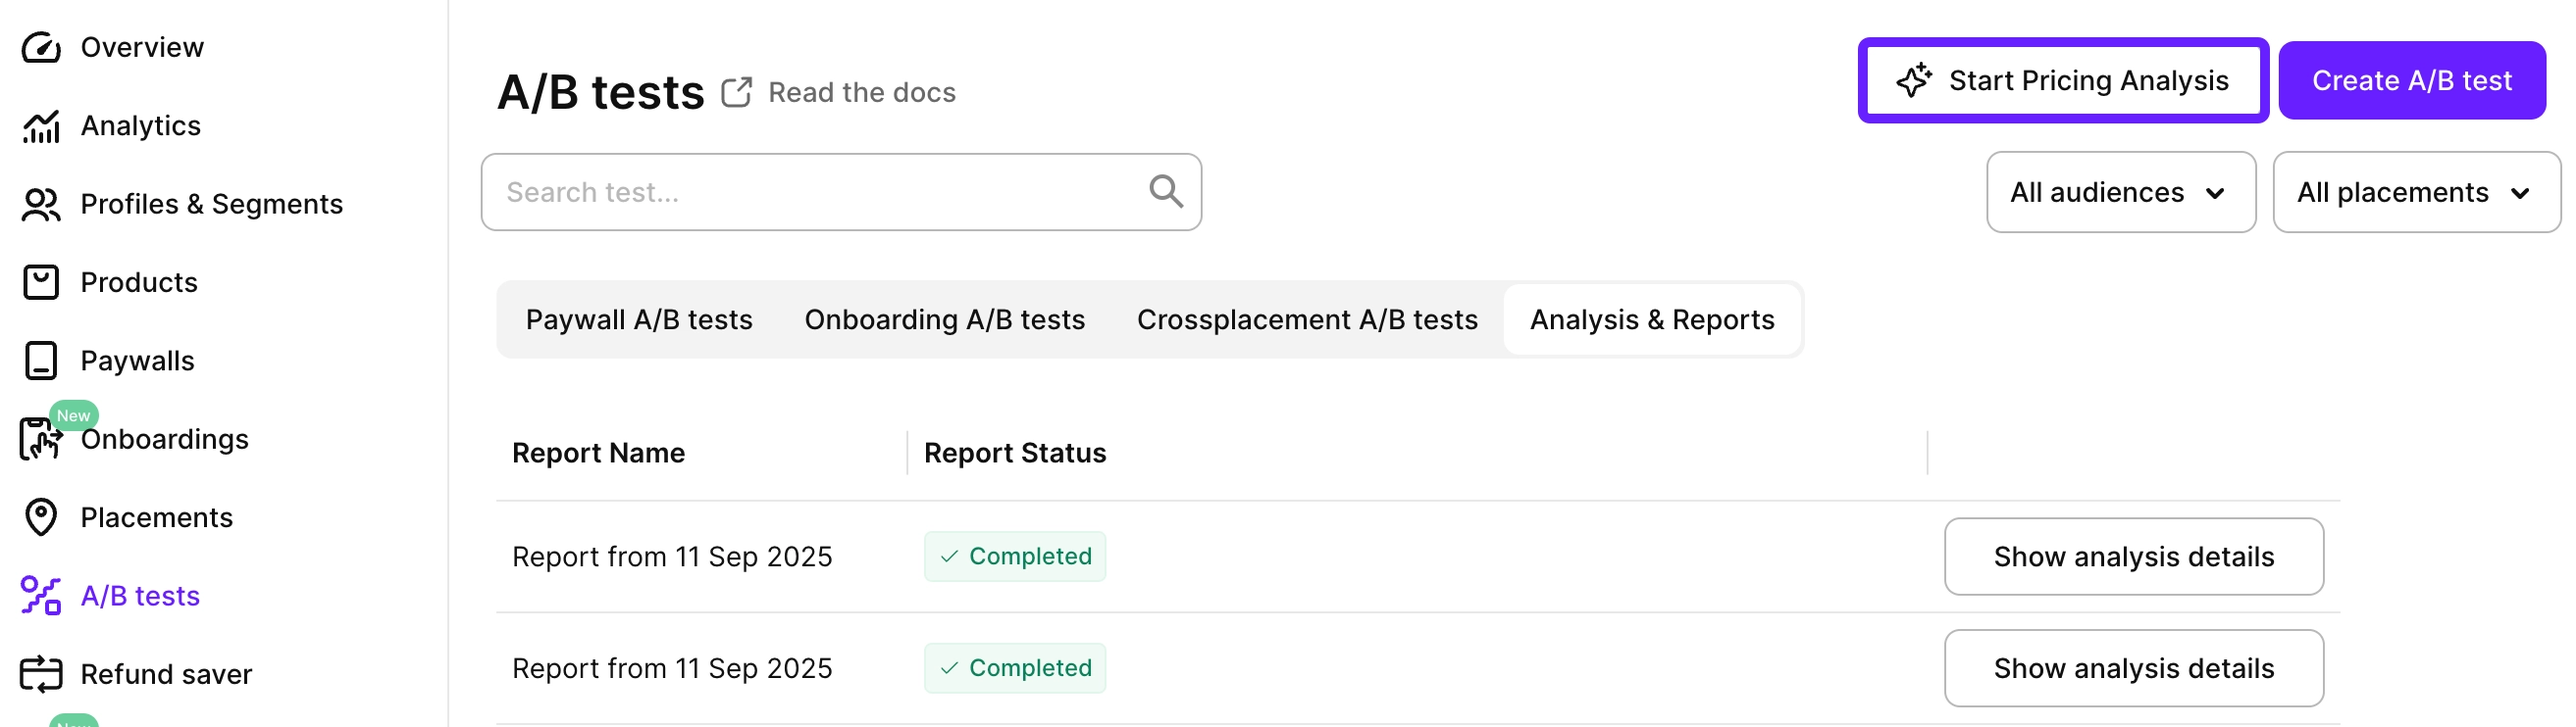
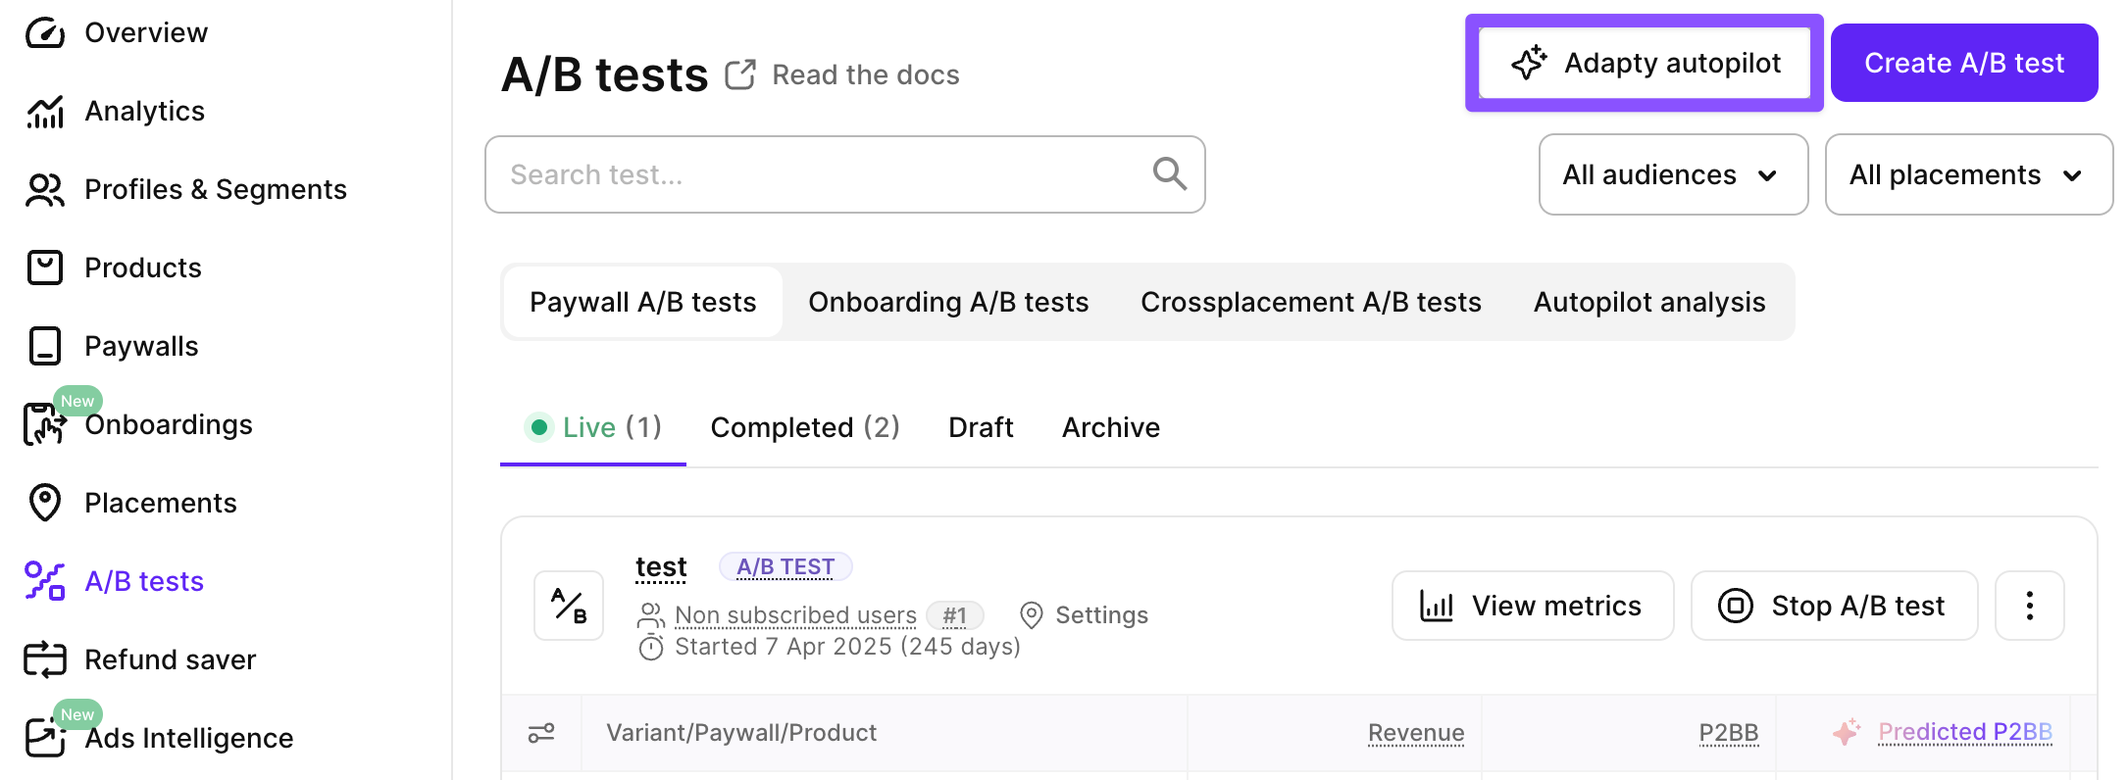
Update the autopilot entry point

diff --git a/versioned_docs/version-3.0/autopilot.md b/versioned_docs/version-3.0/autopilot.md
@@ -43,7 +43,7 @@ Before you start, consider the following:
 
 To create a report on your app:
 
-1. Go to **A/B tests** from the dashboard sidebar and click **Start Pricing Analysis**.
+1. Go to **A/B tests** from the dashboard sidebar and click **Adapty autopilot**.
 
 <Zoom>
   <img src={require('./img/pricing-analysis.webp').default}
@@ -65,12 +65,12 @@ If the analysis doesn't start, it may be due to one of the following reasons:
 - Your top-performing paywall has two or more products with the same period.
 :::
 
-2. We automatically detect your top-performing placement based on revenue data. If you'd like to analyze a different placement, select one from the **Placement** dropdown. Then, click **Analyze this app**. After that, Adapty will need some time to analyze your app, but don't leave the page – it won't take long.
+2. We automatically detect your top-performing placement based on revenue data. If you'd like to analyze a different placement, select one from the **Placement** dropdown. Then, click **Analyze this placement**. After that, Adapty will need some time to analyze your app, but don't leave the page – it won't take long.
 <Zoom>
   <img src={require('./img/select-placement.webp').default}
   style={{
     border: '1px solid #727272', /* border width and color */
-    width: '700px', /* image width */
+    width: '500px', /* image width */
     display: 'block', /* for alignment */
     margin: '0 auto' /* center alignment */
   }}
